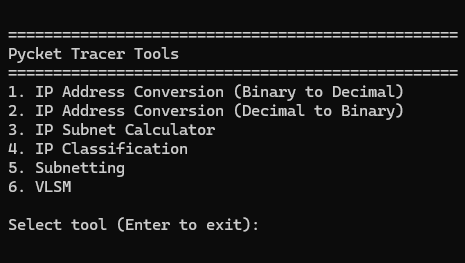
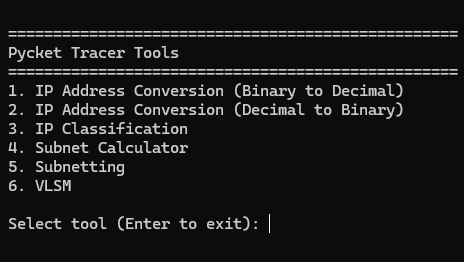
Bug fixing in the subnet calculator, changed tool order

diff --git a/pycket-tracer.py b/pycket-tracer.py
@@ -5,9 +5,9 @@ import math
 
 tools = [
     "1. IP Address Conversion (Binary to Decimal)", 
-    "2. IP Address Conversion (Decimal to Binary)", 
-    "3. IP Subnet Calculator", 
-    "4. IP Classification",
+    "2. IP Address Conversion (Decimal to Binary)",
+    "3. IP Classification", 
+    "4. Subnet Calculator", 
     "5. Subnetting",
     "6. VLSM",
 ]
@@ -95,65 +95,6 @@ def tool(option):
         toolHeader()
         while True:
             try:
-                binaryIP = input("Enter an IP address (Binary): ")
-                if binaryIP == "":
-                    print()
-                    break
-                else:
-                    binaryIP = binaryIP.replace(".", "")
-                    if len(binaryIP) == 32:
-                        binaryIP = int(binaryIP, 2)
-                        ip = ipaddress.IPv4Address(binaryIP)
-                        resultHeader()
-                        print(f"IP address (Decimal): {ip}")
-                        print("=" * 50, "\n")
-                        break
-                    else:
-                        print(f"Only valid IP addresses allowed (Ex.: '{defaultBinaryIP()}')")
-            except ValueError:
-                print(f"Only valid IP addresses allowed (Ex.: '{defaultBinaryIP()}')")
-        submenu()
-    elif option == 3:
-        toolHeader()
-        while True:
-            try:
-                hosts = input("Hosts required: ")
-                if hosts == "":
-                    print()
-                    submenu()
-                else:
-                    hosts = int(hosts)
-                    break
-            except ValueError:
-                print("Enter integers only")
-        totalHosts = hosts + 2
-        bits = 0
-        while (2 ** bits) < totalHosts:
-            bits += 1
-        cidr = 32 - bits
-        while True:
-            try:
-                decimalIP = input("Enter the desired network IP: ")
-                ip = ipaddress.IPv4Address(decimalIP)
-                network = ipaddress.ip_network(f"{ip}/{cidr}")
-                print("=" * 50)
-                print(dedent(f"""\
-                - Subnet Mask: {network.netmask}
-                - CIDR: /{cidr}
-                - Available IPs: {network.num_addresses - 2}
-                - Network IP: {network.network_address}
-                - First Usable IP: {ipaddress.IPv4Network(network)[1]}
-                - Last Usable IP: {ipaddress.IPv4Network(network)[-2]}
-                - Broadcast IP: {network.broadcast_address}"""))
-                print("\n", "=" * 50, "\n")
-                break
-            except (ValueError, UnboundLocalError):
-                print("Only valid network IP allowed (Ex:. 10.0.0.0)")
-        submenu()
-    elif option == 4:
-        toolHeader()
-        while True:
-            try:
                 ip = input("Enter an IP address (Decimal): ")
                 if ip == "":
                     print()
@@ -197,6 +138,43 @@ def tool(option):
                         break
             except ValueError:
                 print(f"Only valid IP addresses allowed (Ex.: '{defaultDecimalIP()}')")
+        submenu()
+    elif option == 4:
+        toolHeader()
+        while True:
+            try:
+                hosts = input("Hosts required: ")
+                if hosts == "":
+                    print()
+                    submenu()
+                else:
+                    hosts = int(hosts)
+                    break
+            except ValueError:
+                print("Enter integers only")
+        totalHosts = hosts + 2
+        bits = 0
+        while (2 ** bits) < totalHosts:
+            bits += 1
+        cidr = 32 - bits
+        while True:
+            try:
+                decimalIP = input("Enter the desired network IP: ")
+                ip = ipaddress.IPv4Address(decimalIP)
+                network = ipaddress.ip_network(f"{ip}/{cidr}")
+                print("=" * 50)
+                print(dedent(f"""
+                - Subnet Mask: {network.netmask}
+                - CIDR: /{cidr}
+                - Available IPs: {network.num_addresses - 2}
+                - Network IP: {network.network_address}
+                - First Usable IP: {ipaddress.IPv4Network(network)[1]}
+                - Last Usable IP: {ipaddress.IPv4Network(network)[-2]}
+                - Broadcast IP: {network.broadcast_address}"""))
+                print("=" * 50, "\n")
+                break
+            except (ValueError, UnboundLocalError):
+                print("Only valid network IP allowed (Ex:. 10.0.0.0)")
         submenu()
     elif option == 5:
         toolHeader()
